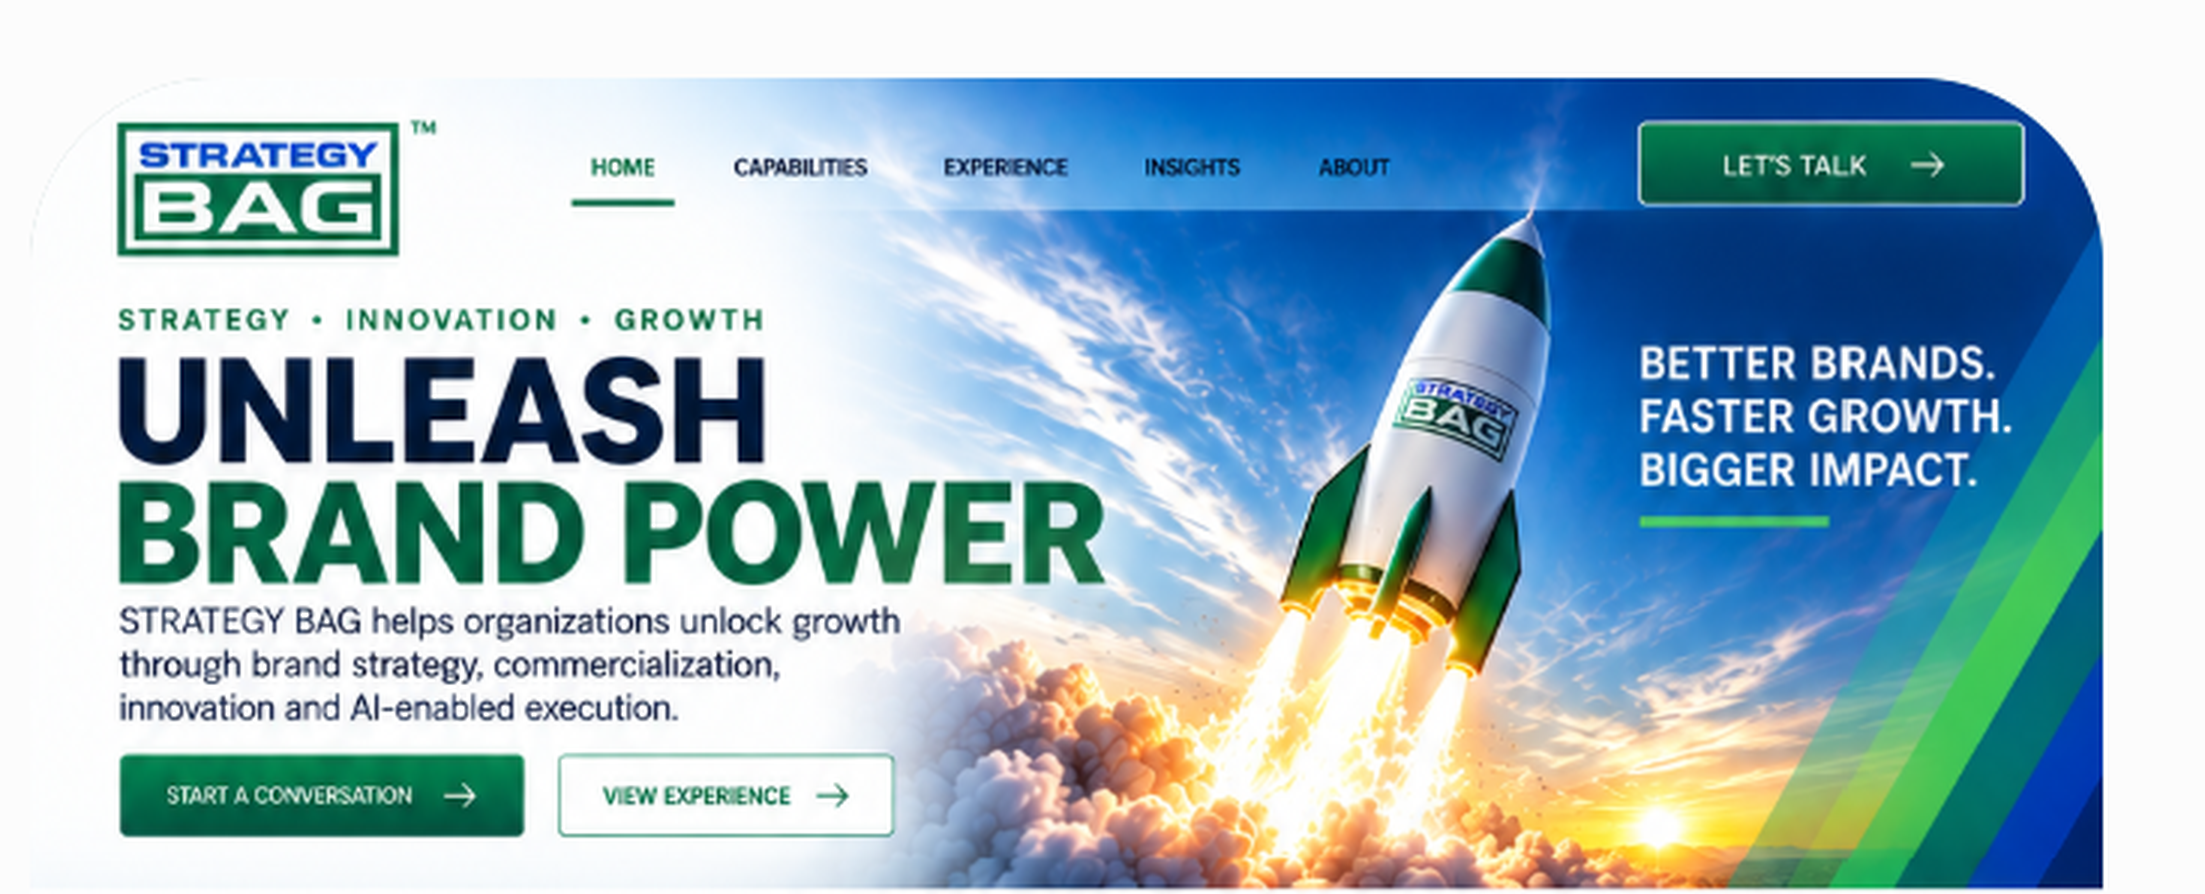
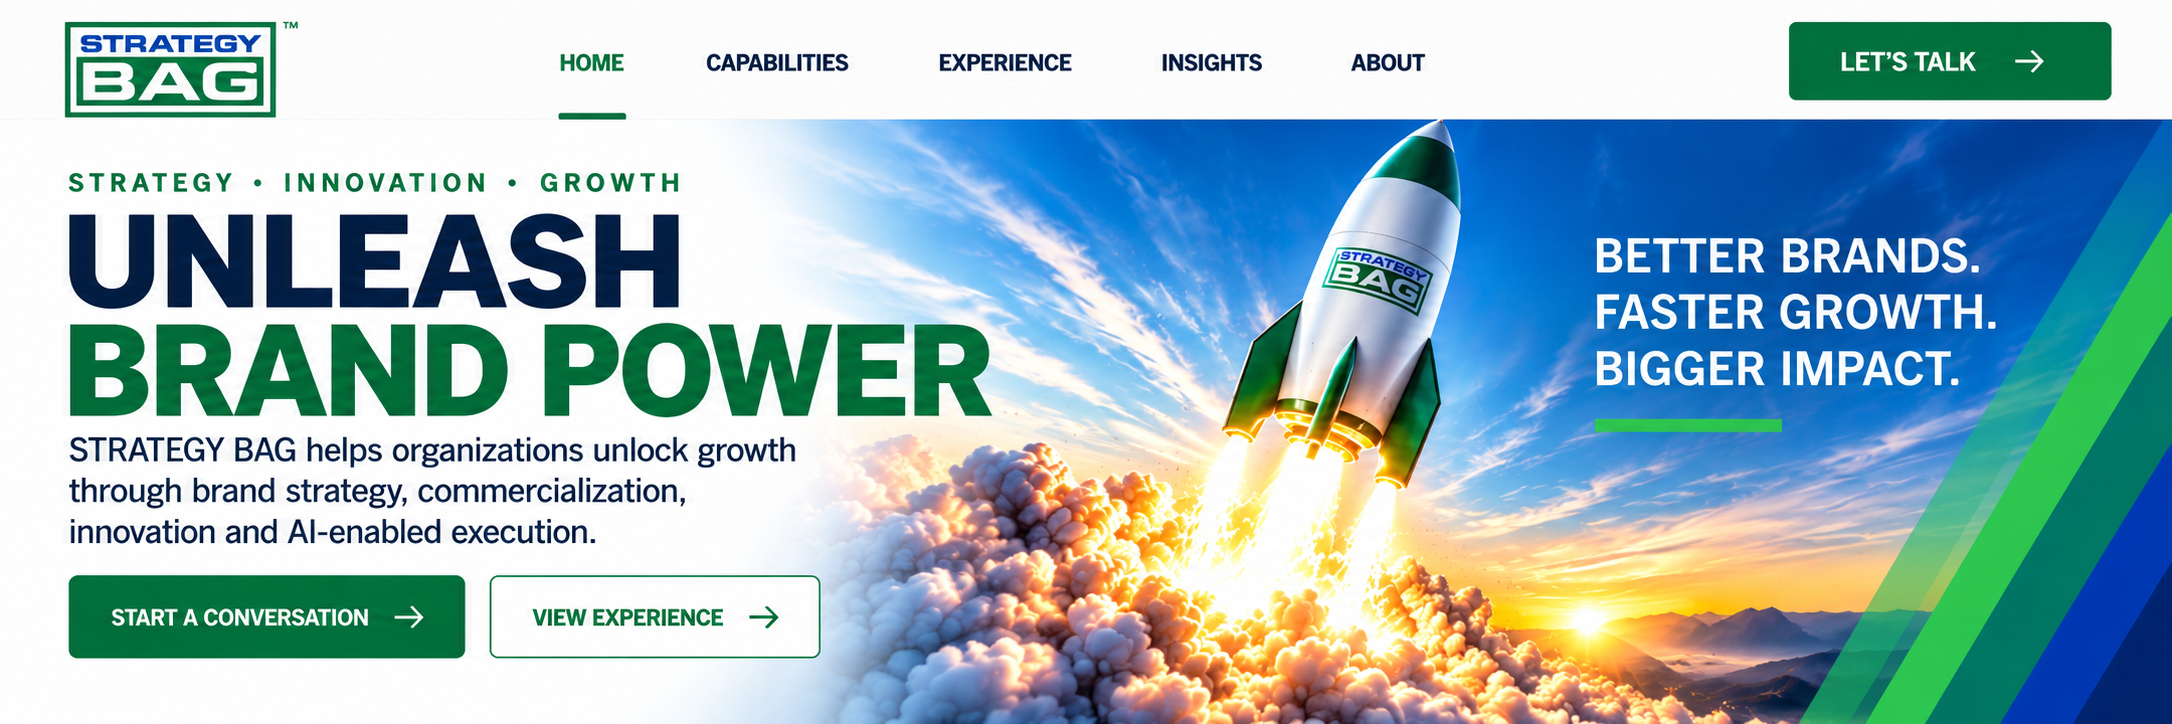
Add files via upload

diff --git a/styles.css b/styles.css
@@ -370,3 +370,16 @@ footer p{margin:0;color:#adbac8;font-size:10px}
     min-width:735px;
   }
 }
+
+/* FINAL HERO: use high-resolution approved artwork without scaling artifacts */
+.approved-hero img{
+  display:block !important;
+  width:100% !important;
+  height:auto !important;
+  image-rendering:auto !important;
+}
+.approved-hero-wrap{
+  width:100% !important;
+  max-width:none !important;
+  margin:0 !important;
+}
